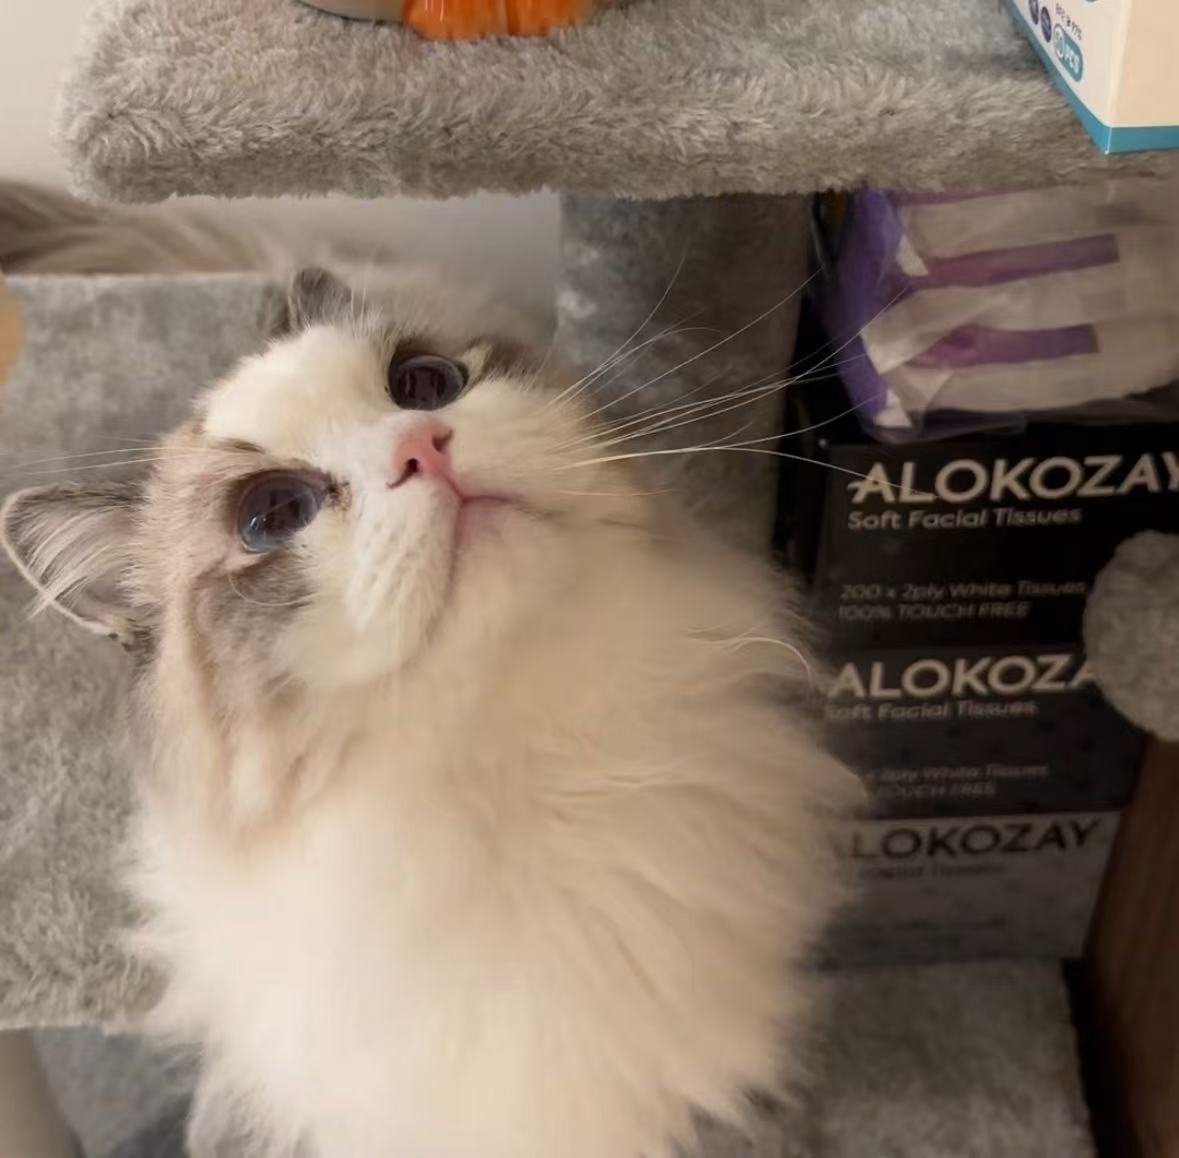
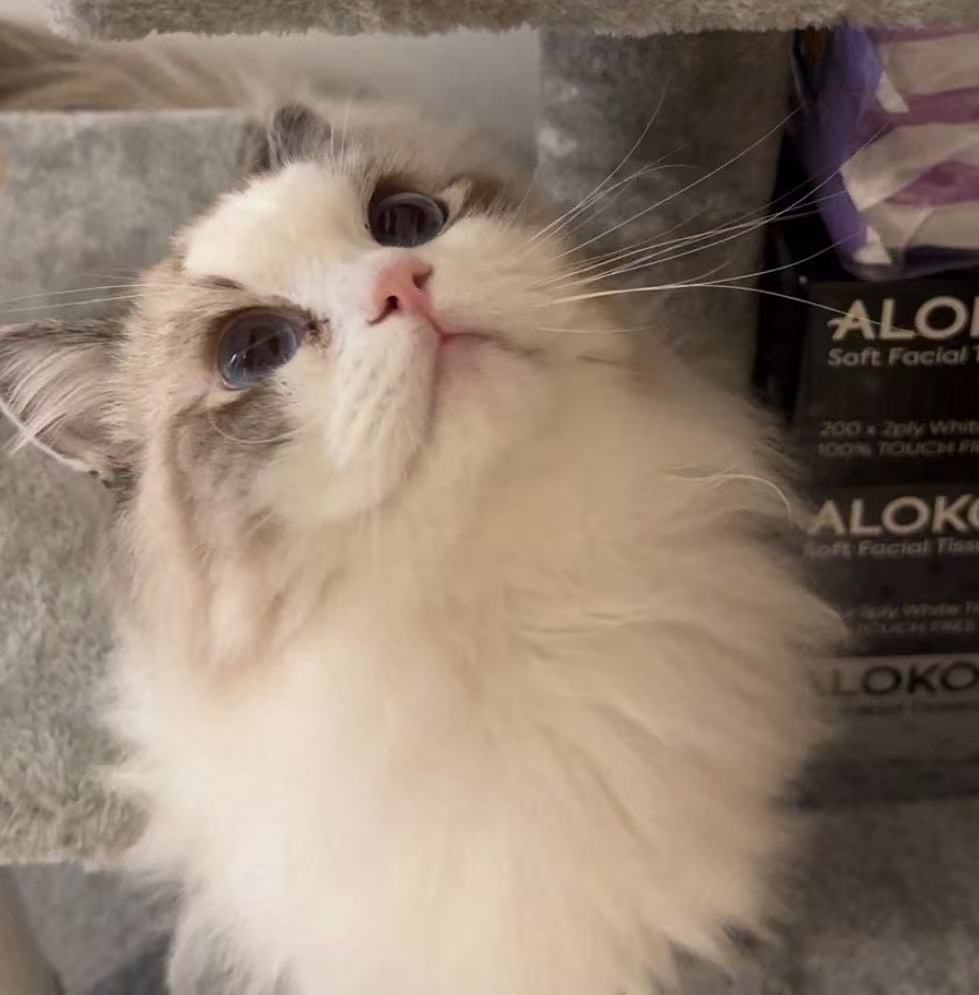
Label sidebar cats with emoji, refresh cat3, update reviewer list
- Sidebar: each cat thumbnail now has its emoji caption below
  (🍉 xixi, 🧃 zhizhi, 🥥 yeye).
- New cat3.jpg.
- about.md: new MBZUAI visiting entry under Research Experience;
  expanded Conference / Journal Reviewer lists.

diff --git a/_includes/author-profile.html b/_includes/author-profile.html
@@ -216,9 +216,18 @@
     </div>
   </div>
 
-  <div class="author__cats" style="display: flex; gap: 6px; margin-top: 1.2em;">
-    <img src="{{ '/images/cat1.jpg' | relative_url }}" alt="cat 1" style="width: 33.33%; aspect-ratio: 1 / 1; object-fit: cover; border-radius: 50%;">
-    <img src="{{ '/images/cat2.jpg' | relative_url }}" alt="cat 2" style="width: 33.33%; aspect-ratio: 1 / 1; object-fit: cover; border-radius: 50%;">
-    <img src="{{ '/images/cat3.jpg' | relative_url }}" alt="cat 3" style="width: 33.33%; aspect-ratio: 1 / 1; object-fit: cover; border-radius: 50%;">
+  <div class="author__cats" style="display: flex; gap: 6px; margin-top: 1.2em; text-align: center;">
+    <div style="width: 33.33%;">
+      <img src="{{ '/images/cat1.jpg' | relative_url }}" alt="cat 1" style="width: 100%; aspect-ratio: 1 / 1; object-fit: cover; border-radius: 50%;">
+      <div style="font-size: 1.1em; margin-top: 4px;">🍉</div>
+    </div>
+    <div style="width: 33.33%;">
+      <img src="{{ '/images/cat2.jpg' | relative_url }}" alt="cat 2" style="width: 100%; aspect-ratio: 1 / 1; object-fit: cover; border-radius: 50%;">
+      <div style="font-size: 1.1em; margin-top: 4px;">🧃</div>
+    </div>
+    <div style="width: 33.33%;">
+      <img src="{{ '/images/cat3.jpg' | relative_url }}" alt="cat 3" style="width: 100%; aspect-ratio: 1 / 1; object-fit: cover; border-radius: 50%;">
+      <div style="font-size: 1.1em; margin-top: 4px;">🥥</div>
+    </div>
   </div>
 </div>

diff --git a/_pages/about.md b/_pages/about.md
@@ -229,12 +229,13 @@ Zexi Li, Tao Lin<sup>†</sup>, **Xinyi Shang**, Chao Wu<sup>†</sup>.
 - *2018* Star of Excellent Volunteers honor (only one student in the college per year).
 
 # 💻 Research Experience
+- *2025.09 - Present*, Research Intern, [VILA Lab](https://github.com/VILA-Lab), Mohamed bin Zayed University of Artificial Intelligence (MBZUAI), supervised by [Prof. Zhiqiang Shen](https://zhiqiangshen.com/).
 - *2022.11 - 2023.09*, Research Intern, [LINs Lab](https://lins-lab.github.io/), Westlake University, supervised by [Prof. Tao Lin](https://tlin-taolin.github.io/). *Decentralized deep learning.*
 - *2022.06 - 2022.09*, Research Intern, MARS Lab, Wuhan University, supervised by [Prof. Mang Ye](https://marswhu.github.io/). *Federated learning.*
 
 # 🤝 Academic Service
-- **Conference Reviewer:** NeurIPS 2025, ICCV 2025, ICLR 2025, CVPR 2025, WACV 2025, IJCAI 2024.
-- **Journal Reviewer:** IEEE TNNLS, IEEE TCSVT, ACM CSUR, IEEE TC, IEEE TETCI.
+- **Conference Reviewer:** ECCV 2026, KDD 2026, ICML 2026, CVPR 2026, ICLR 2026, ICLR 2025, NeurIPS 2025, ICCV 2025, ICLR 2025, CVPR 2025, WACV 2025, IJCAI 2024.
+- **Journal Reviewer:** IEEE TPAMI / TNNLS / TCSVT, ACM Computing Surveys.
 
 # 🙌 Voluntary Activities
 - *2019.03 - 2019.09*, Director of [Teach For China](https://baike.baidu.com/item/%E7%BE%8E%E4%B8%BD%E4%B8%AD%E5%9B%BD/499616) at Zhongnan University of Economics and Law.
